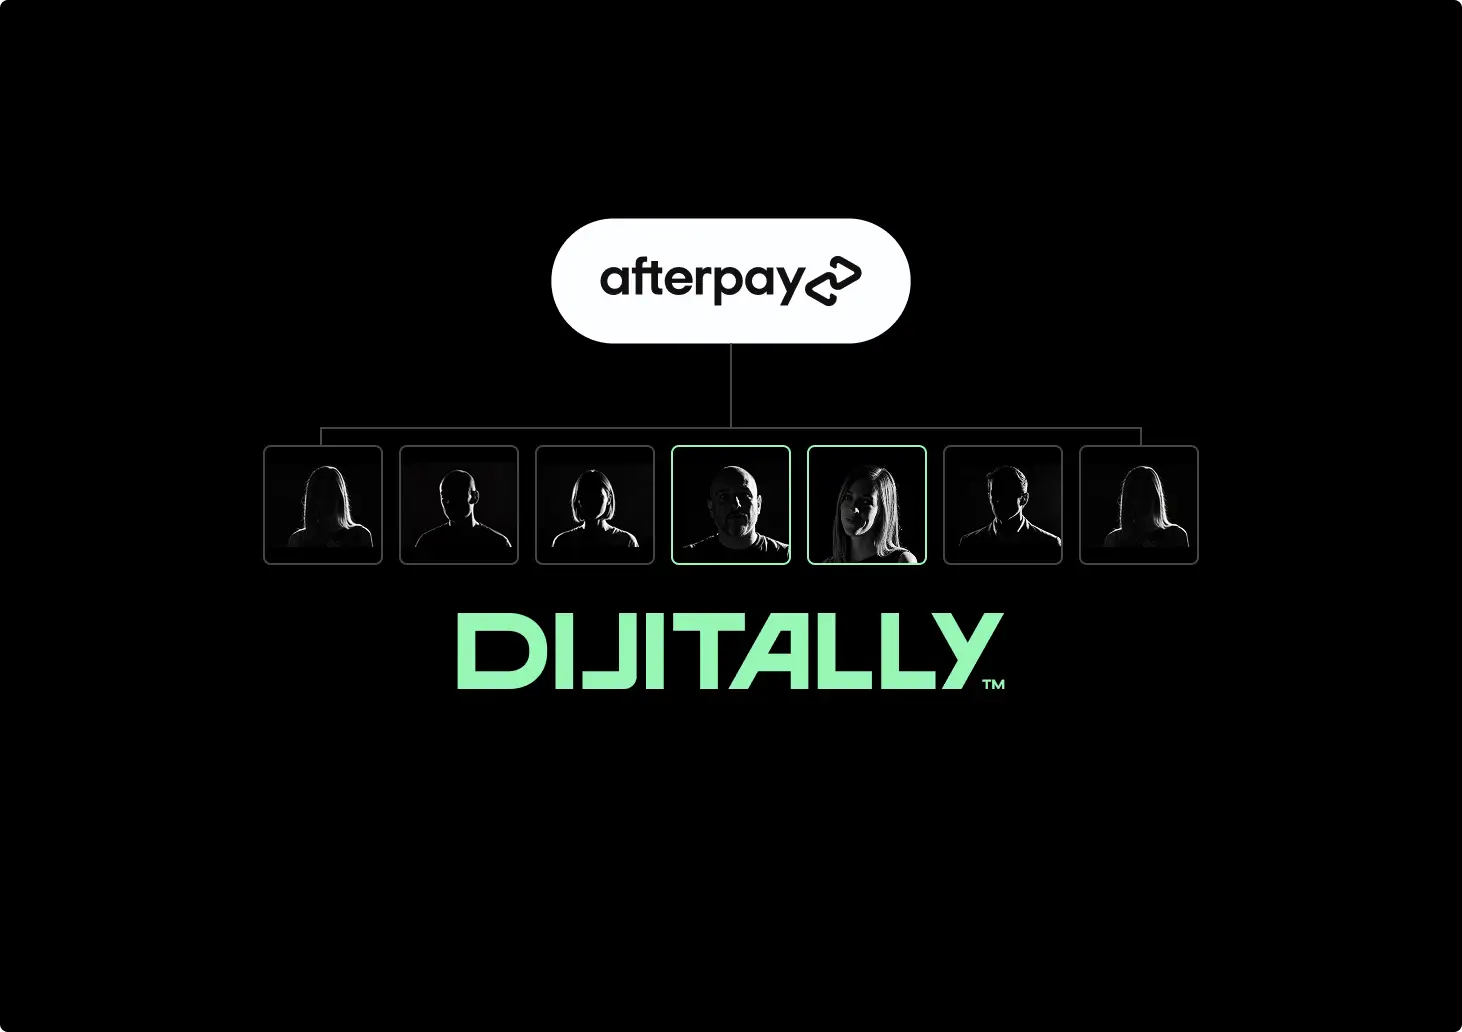
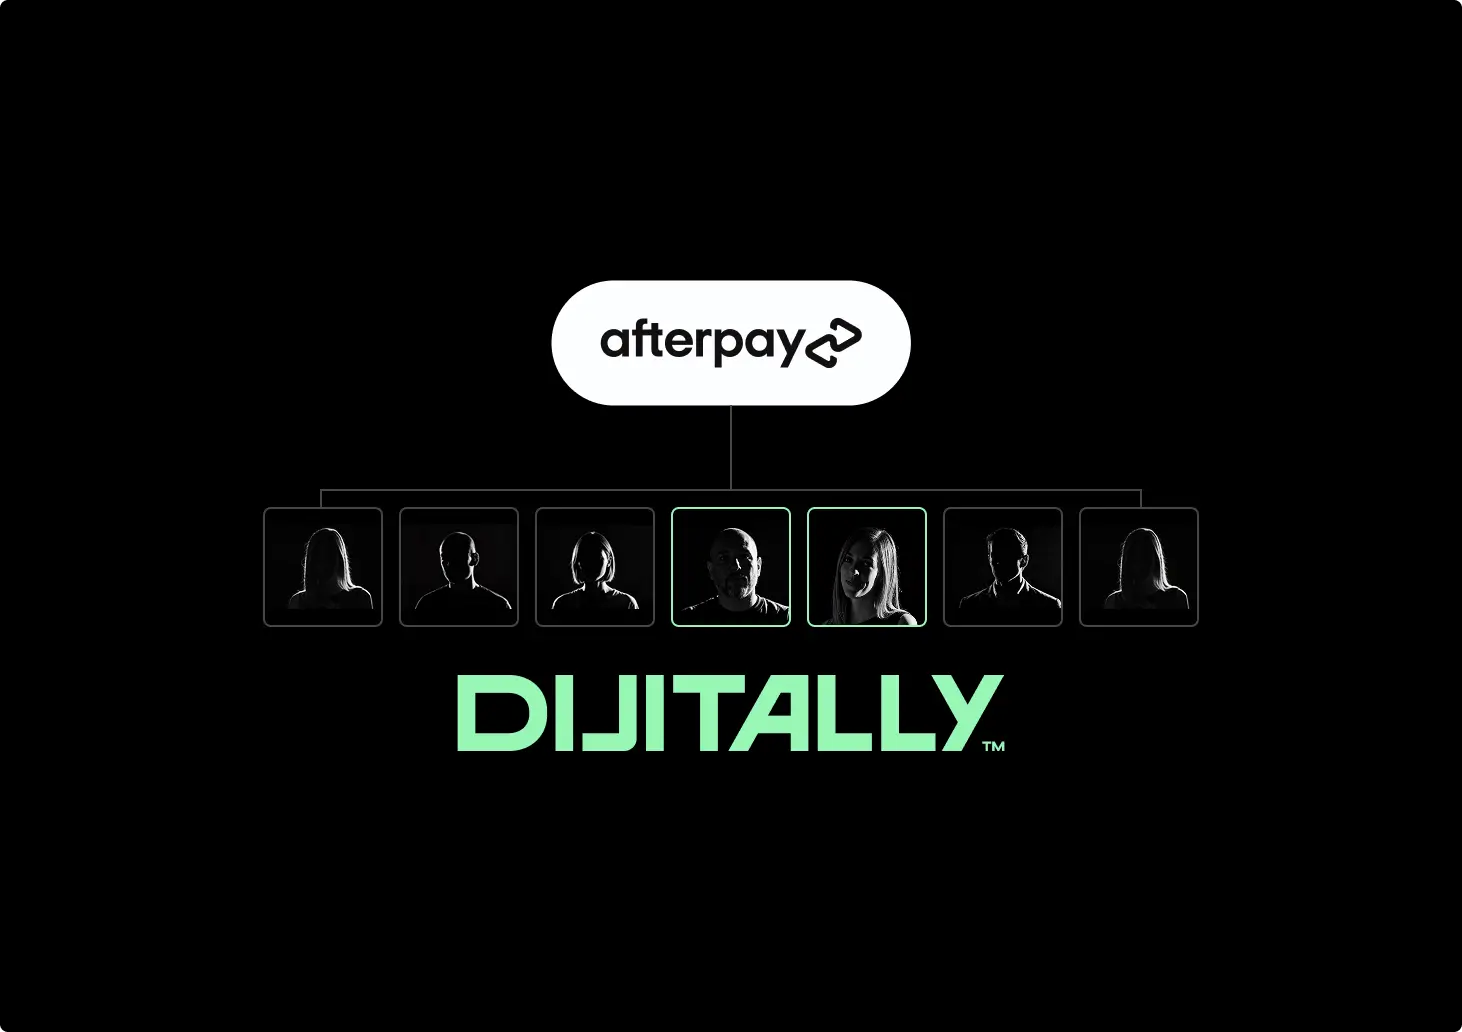
Afterpay case study: full-height hero, new Studio artwork, Airwallex up next panel
The hero fills the screen, with the image card in the bottom-right corner at
the nav's distance from the edges, shrinking on short windows to fit. Studio
uses the new studioxafterpay artwork and In-house the updated diagram. The
first image row is three wide (the third repeats the first for now). Up next
pairs the Airwallex photo with a square panel in Airwallex orange holding the
title and dates.

diff --git a/site/components/case/UpNext.tsx b/site/components/case/UpNext.tsx
@@ -2,8 +2,8 @@ import Image from "next/image";
 import Lede from "../Lede";
 
 /**
- * The close of a case study: a parting line, then the next case study as a large card in the
- * style of the homepage's work carousel (photo, title, mono label).
+ * The close of a case study: a parting line, then the next case study: its photo beside a
+ * square panel in the client's brand colour with the title and partnership details.
  */
 export default function UpNext({
   lead,
@@ -14,6 +14,7 @@ export default function UpNext({
   image,
   alt,
   background,
+  color,
 }: {
   lead: string;
   body: string;
@@ -23,6 +24,8 @@ export default function UpNext({
   image: string;
   alt: string;
   background?: string;
+  /** The next client's brand colour, for the square title panel. */
+  color: string;
 }) {
   return (
     <section data-nav-bg="page" className="flex flex-col gap-16 bg-primary px-6 py-16 lg:gap-32 lg:px-[42px] lg:py-32">
@@ -32,26 +35,31 @@ export default function UpNext({
         </Lede>
       </div>
 
-      <a href={href} className="group flex flex-col gap-6 outline-none">
-        <span className="font-mono text-[10px] uppercase leading-none text-static lg:text-[12px]">Up next</span>
+      {/* The photo, with a square panel in the client's colour to its right holding the title,
+          set apart by the page margin (24px mobile, 42px desktop). Stacked on mobile. */}
+      <a href={href} className="group grid grid-cols-1 gap-6 outline-none lg:grid-cols-[1fr_auto] lg:gap-[42px]">
         <span
-          className="relative block aspect-[4/5] w-full overflow-hidden rounded-[4px] group-focus-visible:ring-2 group-focus-visible:ring-secondary sm:aspect-[16/9] lg:aspect-[21/9] lg:rounded-[8px]"
+          className="relative block aspect-[16/9] w-full overflow-hidden rounded-[4px] group-focus-visible:ring-2 group-focus-visible:ring-secondary lg:aspect-auto lg:h-full lg:rounded-[8px]"
           style={background ? { background } : undefined}
         >
           <Image
             src={image}
             alt={alt}
             fill
-            sizes="100vw"
+            sizes="(min-width: 1024px) 60vw, 100vw"
             className="object-cover transition-transform duration-700 ease-out group-hover:scale-[1.03]"
           />
         </span>
-        <div className="flex flex-col items-start gap-3.5">
-          <span className="trim text-[22px] leading-[1.2] transition-colors group-hover:text-wcag lg:text-[38px] lg:tracking-[-0.76px]">
-            {title}
+        <span
+          className="flex aspect-square w-full flex-col justify-between rounded-[4px] p-6 text-coal lg:w-[clamp(320px,32vw,560px)] lg:rounded-[8px] lg:p-[42px]"
+          style={{ background: color }}
+        >
+          <span className="font-mono text-[10px] uppercase leading-none lg:text-[12px]">Up next</span>
+          <span className="flex flex-col items-start gap-3.5">
+            <span className="trim text-[32px] leading-none tracking-[-0.64px] lg:text-[48px] lg:tracking-[-0.96px]">{title}</span>
+            <span className="font-mono text-[8px] leading-none tracking-[-0.16px] lg:text-[10px] lg:tracking-[-0.2px]">{meta}</span>
           </span>
-          <p className="font-mono text-[8px] leading-none tracking-[-0.16px] text-static lg:text-[10px] lg:tracking-[-0.2px]">{meta}</p>
-        </div>
+        </span>
       </a>
     </section>
   );

diff --git a/site/app/work/afterpay/page.tsx b/site/app/work/afterpay/page.tsx
@@ -76,6 +76,8 @@ export default function AfterpayCaseStudy() {
         images={[
           img("shelter-sale", "Lit bus shelter poster at night advertising an Afterpay sale, with white over-ear headphones", 2000, 1338),
           img("billboard-reverse", "Dijitally and Afterpay logos locked up on the same atrium billboard, stacked the other way", 1600, 1070),
+          // Placeholder: a repeat of the first image until the third one is chosen.
+          img("shelter-sale", "Lit bus shelter poster at night advertising an Afterpay sale, with white over-ear headphones", 2000, 1338),
         ]}
       />
 
@@ -92,8 +94,8 @@ export default function AfterpayCaseStudy() {
             title: "Studio.",
             body: "High-impact creative, CRM, web and data capability, delivered fast, without the overhead of permanent hires.",
             points: ["Scales up when it’s needed", "And back when it isn’t", "No permanent headcount"],
-            image: asset("/work/afterpay/day-posters.webp"),
-            alt: "Three digital posters in a walkway showing chrome product renders and the Afterpay Day dates",
+            image: asset("/services/studioxafterpay.webp"),
+            alt: "A spread of Afterpay creative by the studio: an Afterpay Day sale poster, social posts, an email and partner campaigns",
           },
           {
             title: "In-house.",
@@ -175,6 +177,8 @@ export default function AfterpayCaseStudy() {
         image={asset("/figma/work-airwallex.webp")}
         alt="Three rugby players in Airwallex-sponsored jerseys"
         background="linear-gradient(to bottom, #36222d, #4f3036 50.081%)"
+        // Airwallex's orange, sampled from the orange end of their official logo
+        color="#F28A45"
       />
 
       <Footer />

diff --git a/site/components/case/CaseHero.tsx b/site/components/case/CaseHero.tsx
@@ -24,7 +24,9 @@ export default function CaseHero({
     <section
       id="top"
       data-nav-bg="page"
-      className="flex flex-col gap-16 bg-primary px-6 pb-16 pt-[120px] lg:gap-24 lg:px-[42px] lg:pb-24 lg:pt-[230px]"
+      // A full screen tall, like the homepage hero, with the image card in the bottom-right
+      // corner at the nav's distance from the edges: 24px on mobile, 42px on desktop.
+      className="flex min-h-svh flex-col justify-between gap-16 bg-primary px-6 pb-6 pt-[120px] lg:px-[42px] lg:pb-[42px] lg:pt-[230px]"
     >
       <div className="flex flex-col gap-6 lg:gap-8 lg:px-[42px]">
         {/* Eyebrow: client and dates on one line, in capitals except a " x " between names */}
@@ -43,8 +45,11 @@ export default function CaseHero({
         </SplitHeading>
       </div>
       {/* The frame is Figma "UI" in light mode and the card's zero-dark in dark mode */}
-      <div className="self-end rounded-[8px] bg-ui p-3 lg:mr-[42px] lg:p-5 dark:bg-zero-dark">
-        <div className="w-[274px] overflow-hidden rounded-[3px] lg:w-[714px]">
+      <div className="self-end rounded-[8px] bg-ui p-3 lg:p-5 dark:bg-zero-dark">
+        {/* On desktop the image is 714px wide when the window is tall enough, and shrinks with
+            the window's height so the hero still fits one screen (the 570px is everything
+            above and around it), down to the homepage card's 357px at the least. */}
+        <div className="w-[274px] overflow-hidden rounded-[3px] lg:w-[clamp(357px,calc((100svh-570px)*16/9),714px)]">
           <RevealImage {...image} width={16} height={9} priority sizes="(min-width: 1024px) 714px, 274px" className="rounded-none!" />
         </div>
       </div>

diff --git a/dijitally-services.html b/dijitally-services.html
@@ -179,7 +179,7 @@
   </style>
 </head>
 <body>
-<div style="position:fixed;bottom:12px;left:12px;z-index:9999;font-family:monospace;font-size:11px;color:red;pointer-events:none;">build 2233561</div>
+<div style="position:fixed;bottom:12px;left:12px;z-index:9999;font-family:monospace;font-size:11px;color:red;pointer-events:none;">build d9342c5</div>
 <svg style="position:absolute;width:0;height:0;overflow:hidden" aria-hidden="true">
   <defs>
     <!--

diff --git a/site/components/case/CaseGallery.tsx b/site/components/case/CaseGallery.tsx
@@ -17,7 +17,7 @@ export default function CaseGallery({ images }: { images: CaseImage[] }) {
       >
         {images.map((img, i) => (
           <RevealImage
-            key={img.src}
+            key={`${img.src}-${i}`}
             {...img}
             order={i}
             sizes={cols > 1 ? `(min-width: 1024px) ${Math.round(100 / cols)}vw, 100vw` : "100vw"}
